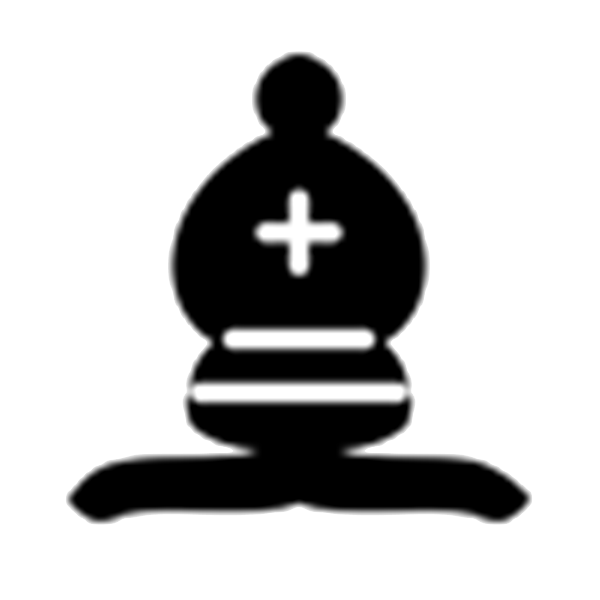
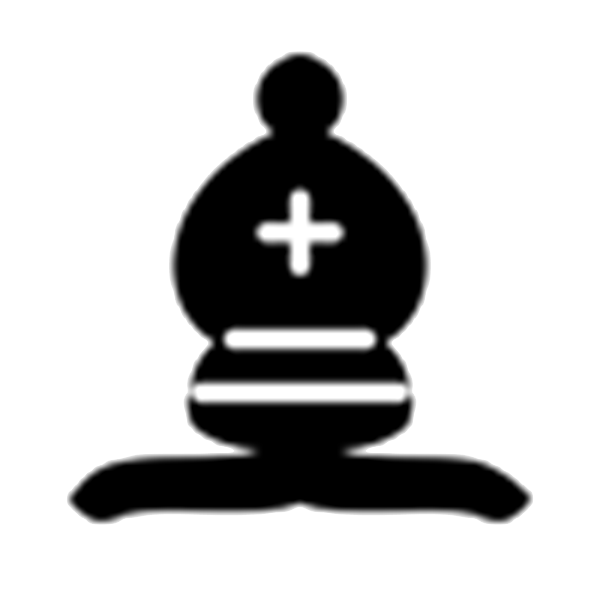
recenter piece css on board

diff --git a/src/app/globals.css b/src/app/globals.css
@@ -421,228 +421,230 @@
     @apply bottom-[15.5%] left-[47%];
   }
 
+  /* Archimean Classes */
   .r12c1a {
-    @apply top-[15.8%] left-[44.3%];
+    @apply top-[15.7%] left-[45.8%];
   }
   .r11c1a {
-    @apply top-[21.7%] left-[26.0%];
+    @apply top-[21.5%] left-[26.4%];
   }
   .r11c2a {
-    @apply top-[21.7%] left-[44.3%];
+    @apply top-[21.5%] left-[45.8%];
   }
   .r11c3a {
-    @apply top-[21.7%] left-[63.3%];
+    @apply top-[21.5%] left-[65.3%];
   }
 
   .r10c1a {
-    @apply top-[27.7%] left-[19.3%];
+    @apply top-[27.2%] left-[19.7%];
   }
   .r10c2a {
-    @apply top-[27.7%] left-[26.7%];
+    @apply top-[27.2%] left-[27.7%];
   }
   .r10c3a {
-    @apply top-[27.7%] left-[44.3%];
+    @apply top-[27.2%] left-[45.8%];
   }
   .r10c4a {
-    @apply top-[27.7%] left-[62.2%];
+    @apply top-[27.2%] left-[63.3%];
   }
   .r10c5a {
-    @apply top-[27.7%] left-[69.9%];
+    @apply top-[27.2%] left-[70.7%];
   }
 
   .r9c1a {
-    @apply top-[33.5%] left-[15.6%];
+    @apply top-[32.9%] left-[15.6%];
   }
   .r9c2a {
-    @apply top-[33.5%] left-[22.2%];
+    @apply top-[32.9%] left-[22.5%];
   }
   .r9c3a {
-    @apply top-[33.5%] left-[29.5%];
+    @apply top-[32.9%] left-[29.7%];
   }
   .r9c4a {
-    @apply top-[33.5%] left-[44.3%];
+    @apply top-[32.9%] left-[45.8%];
   }
   .r9c5a {
-    @apply top-[33.5%] left-[59.8%];
+    @apply top-[32.9%] left-[60.5%];
   }
   .r9c6a {
-    @apply top-[33.5%] left-[67.1%];
+    @apply top-[32.9%] left-[67.9%];
   }
   .r9c7a {
-    @apply top-[33.5%] left-[73.7%];
+    @apply top-[32.9%] left-[74.4%];
   }
 
   .r8c1a {
-    @apply top-[39.2%] left-[13.7%];
+    @apply top-[38.4%] left-[13.7%];
   }
   .r8c2a {
-    @apply top-[39.2%] left-[19.9%];
+    @apply top-[38.4%] left-[20.1%];
   }
   .r8c3a {
-    @apply top-[39.2%] left-[26.2%];
+    @apply top-[38.4%] left-[26.3%];
   }
   .r8c4a {
-    @apply top-[39.2%] left-[33.0%];
+    @apply top-[38.4%] left-[33.4%];
   }
   .r8c5a {
-    @apply top-[39.2%] left-[44.3%];
+    @apply top-[38.4%] left-[45.8%];
   }
   .r8c6a {
-    @apply top-[39.2%] left-[56.2%];
+    @apply top-[38.4%] left-[57.1%];
   }
   .r8c7a {
-    @apply top-[39.2%] left-[63.0%];
+    @apply top-[38.4%] left-[64.1%];
   }
   .r8c8a {
-    @apply top-[39.2%] left-[69.0%];
+    @apply top-[38.4%] left-[70.2%];
   }
   .r8c9a {
-    @apply top-[39.2%] left-[75.2%];
+    @apply top-[38.4%] left-[76.2%];
   }
 
   .r7c1a {
-    @apply top-[45.1%] left-[12.6%];
+    @apply top-[44.5%] left-[12.4%];
   }
   .r7c2a {
-    @apply top-[45.1%] left-[18.5%];
+    @apply top-[44.5%] left-[18.3%];
   }
   .r7c3a {
-    @apply top-[45.1%] left-[24.5%];
+    @apply top-[44.5%] left-[24.2%];
   }
   .r7c4a {
-    @apply top-[45.1%] left-[30.5%];
+    @apply top-[44.5%] left-[30.2%];
   }
   .r7c5a {
-    @apply top-[45.1%] left-[36.5%];
+    @apply top-[44.5%] left-[36.3%];
   }
   .r7c6a {
-    @apply top-[45.1%] left-[44.3%];
+    @apply top-[44.0%] left-[45.8%];
   }
   .r7c7a {
-    @apply top-[45.1%] left-[52.7%];
+    @apply top-[44.5%] left-[53.8%];
   }
   .r7c8a {
-    @apply top-[45.1%] left-[58.7%];
+    @apply top-[44.5%] left-[59.7%];
   }
   .r7c9a {
-    @apply top-[45.1%] left-[64.6%];
+    @apply top-[44.5%] left-[65.5%];
   }
   .r7c10a {
-    @apply top-[45.1%] left-[70.4%];
+    @apply top-[44.5%] left-[71.4%];
   }
   .r7c11a {
-    @apply top-[45.1%] left-[76.4%];
+    @apply top-[44.5%] left-[77.2%];
   }
+
   .r6c1a {
-    @apply top-[50.8%] left-[18.3%];
+    @apply top-[51.5%] left-[17.9%];
   }
   .r6c2a {
-    @apply top-[50.6%] left-[24.2%];
+    @apply top-[51.5%] left-[23.7%];
   }
   .r6c3a {
-    @apply top-[50.6%] left-[30.2%];
+    @apply top-[51.5%] left-[29.5%];
   }
   .r6c4a {
-    @apply top-[50.6%] left-[36.1%];
+    @apply top-[51.5%] left-[35.4%];
   }
   .r6c5a {
-    @apply top-[50.6%] left-[42.1%];
+    @apply top-[51.5%] left-[41.0%];
   }
   .r6c6a {
-    @apply top-[50.6%] left-[50.2%];
+    @apply top-[51.5%] left-[49.3%];
   }
   .r6c7a {
-    @apply top-[50.6%] left-[58.6%];
+    @apply top-[51.5%] left-[58.7%];
   }
   .r6c8a {
-    @apply top-[50.6%] left-[64.6%];
+    @apply top-[51.5%] left-[64.9%];
   }
   .r6c9a {
-    @apply top-[50.6%] left-[70.5%];
+    @apply top-[51.5%] left-[70.9%];
   }
   .r6c10a {
-    @apply top-[50.6%] left-[76.4%];
+    @apply top-[51.5%] left-[76.8%];
   }
   .r6c11a {
-    @apply top-[50.6%] left-[82.2%];
+    @apply top-[51.5%] left-[82.7%];
   }
 
   .r5c1a {
-    @apply top-[56.6%] left-[19.3%];
+    @apply top-[57.1%] left-[18.8%];
   }
   .r5c2a {
-    @apply top-[56.6%] left-[25.7%];
+    @apply top-[57.1%] left-[25%];
   }
   .r5c3a {
-    @apply top-[56.6%] left-[31.9%];
+    @apply top-[57.1%] left-[31.0%];
   }
   .r5c4a {
-    @apply top-[56.6%] left-[38.7%];
+    @apply top-[57.1%] left-[37.6%];
   }
   .r5c5a {
-    @apply top-[56.6%] left-[50.2%];
+    @apply top-[57.1%] left-[49.3%];
   }
   .r5c6a {
-    @apply top-[56.6%] left-[61.8%];
+    @apply top-[57.1%] left-[61.7%];
   }
   .r5c7a {
-    @apply top-[56.6%] left-[68.8%];
+    @apply top-[57.1%] left-[68.8%];
   }
   .r5c8a {
-    @apply top-[56.6%] left-[75%];
+    @apply top-[57.1%] left-[75.1%];
   }
   .r5c9a {
-    @apply top-[56.6%] left-[81.2%];
+    @apply top-[57.1%] left-[81.4%];
   }
 
   .r4c1a {
-    @apply top-[62.3%] left-[22.2%];
+    @apply top-[62.8%] left-[21.4%];
   }
   .r4c2a {
-    @apply top-[62.3%] left-[29.3%];
+    @apply top-[62.8%] left-[28.2%];
   }
   .r4c3a {
-    @apply top-[62.3%] left-[37%];
+    @apply top-[62.8%] left-[35.8%];
   }
   .r4c4a {
-    @apply top-[62.3%] left-[50.2%];
+    @apply top-[62.8%] left-[49.3%];
   }
   .r4c5a {
-    @apply top-[62.3%] left-[63.9%];
+    @apply top-[62.8%] left-[63.5%];
   }
   .r4c6a {
-    @apply top-[62.3%] left-[71.7%];
+    @apply top-[62.8%] left-[71.3%];
   }
   .r4c7a {
-    @apply top-[62.3%] left-[78.6%];
+    @apply top-[62.8%] left-[78.3%];
   }
 
   .r3c1a {
-    @apply top-[68.1%] left-[26.1%];
+    @apply top-[68.3%] left-[26.1%];
   }
   .r3c2a {
-    @apply top-[68.1%] left-[34.6%];
+    @apply top-[68.3%] left-[33.8%];
   }
   .r3c3a {
-    @apply top-[68.1%] left-[50.2%];
+    @apply top-[68.3%] left-[49.3%];
   }
   .r3c4a {
-    @apply top-[68.1%] left-[65.7%];
+    @apply top-[68.3%] left-[65.2%];
   }
   .r3c5a {
-    @apply top-[68.1%] left-[74.6%];
+    @apply top-[68.3%] left-[74.4%];
   }
 
   .r2c1a {
-    @apply top-[73.9%] left-[31.9%];
+    @apply top-[74.0%] left-[31.0%];
   }
   .r2c2a {
-    @apply top-[73.9%] left-[50.2%];
+    @apply top-[74.0%] left-[49.3%];
   }
   .r2c3a {
-    @apply top-[73.9%] left-[68.2%];
+    @apply top-[74.0%] left-[67.67%];
   }
   .r1c1a {
-    @apply top-[79.5%] left-[50.2%];
+    @apply top-[79.7%] left-[49.3%];
   }
 }

diff --git a/shared/concentric-rules.ts b/shared/concentric-rules.ts
@@ -346,7 +346,7 @@ export const initialPieces: RulesPiece[] = [
   // { type: "queen", color: "blk", position: "r6c3"},
   // { type: "queen", color: "blk", position: "r6c4"},
   // { type: "queen", color: "blk", position: "r6c5"},
-  // { type: "knight", color: "blk", position: "r6c6"},
+  // { type: "queen", color: "blk", position: "r6c6"},
   // { type: "queen", color: "blk", position: "r6c7"},
   // { type: "queen", color: "blk", position: "r6c8"},
   // { type: "queen", color: "blk", position: "r6c9"},
@@ -358,7 +358,7 @@ export const initialPieces: RulesPiece[] = [
   // { type: "queen", color: "blk", position: "r7c3"},
   // { type: "queen", color: "blk", position: "r7c4"},
   // { type: "queen", color: "blk", position: "r7c5"},
-  // { type: "knight", color: "blk", position: "r7c6"},
+  // { type: "queen", color: "blk", position: "r7c6"},
   // { type: "queen", color: "blk", position: "r7c7"},
   // { type: "queen", color: "blk", position: "r7c8"},
   // { type: "queen", color: "blk", position: "r7c9"},
